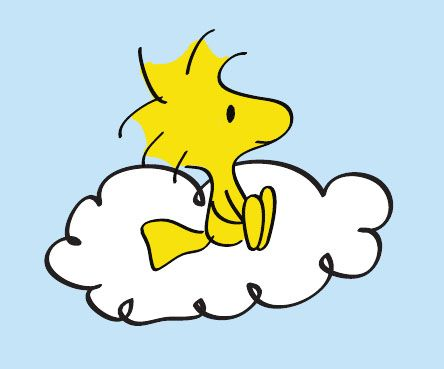
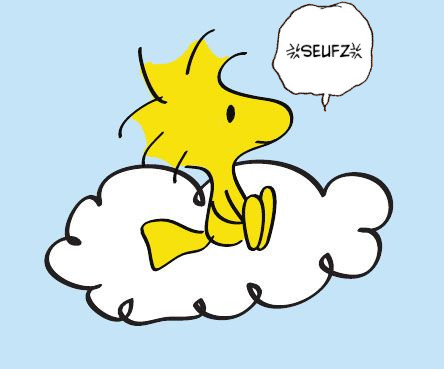
add speech bubble to woodstock

Changed region(s): [[0.6149, 0.0, 0.8491, 0.2981]]

diff --git a/index.html b/index.html
@@ -4,7 +4,7 @@
     <meta charset="UTF-8" />
     <link rel="icon" type="image/svg+xml" href="/vite.svg" />
     <meta name="viewport" content="width=device-width, initial-scale=1.0" />
-    <title>Vite + React + TS</title>
+    <title>Seufz</title>
   </head>
   <body>
     <div id="root"></div>
